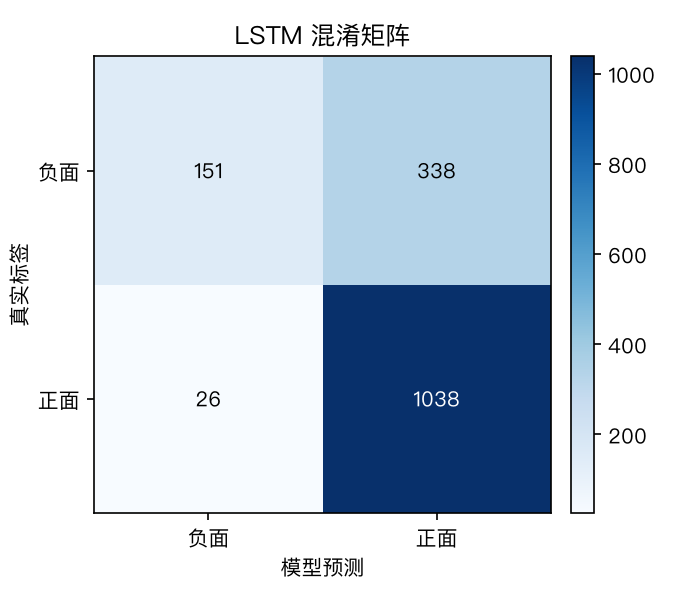
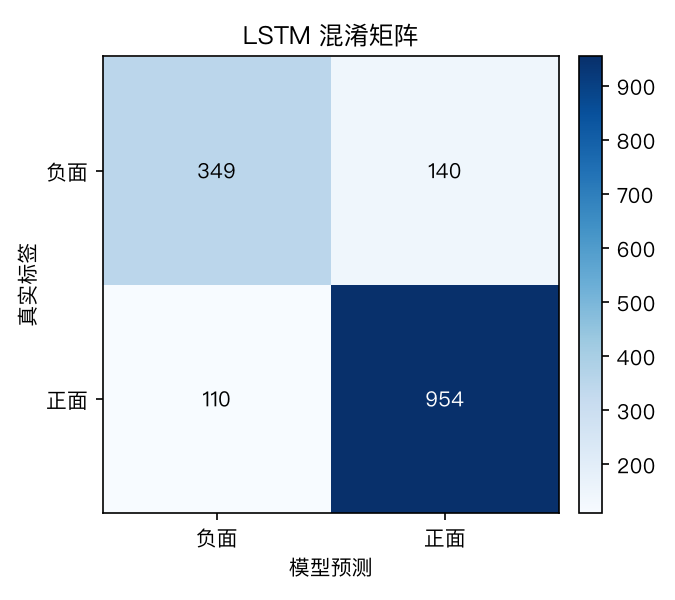
feat(model): LSTM 基线修复——学习率减半 + 验证集最优保存，测试集 83.9%；统一评估补全 BERT 对比

diff --git a/model/train_lstm.py b/model/train_lstm.py
@@ -1,12 +1,13 @@
 """② LSTM 基线模型：先用最简结构把「数据 → 训练 → 评估 → 保存」全流程跑通。
 
-作用：兜底模型 + 练手。若 BERT 环节出问题，始终有可用的模型交付。
+作用：兜底模型 + 模型对比的基线。若 BERT 环节出问题，始终有可用的模型交付。
 
 流程：
     加载 data/processed/train.csv → 划分 90% 训练 / 10% 验证 →
     字符级向量化（中文按单字切分，统一截断/填充到 128）→
-    Embedding + 双向 LSTM + 分类头 → 训练 5 轮 →
-    在 data/processed/test.csv 上计算准确率（预期 90% 左右）→
+    Embedding + 双向 LSTM + 分类头 → 训练 12 轮（按验证集准确率
+    保存最优权重，机制与 BERT 侧一致）→
+    用最优权重在 data/processed/test.csv 上计算准确率 →
     模型保存到 saved/lstm/lstm_model.keras（向量化层内置在模型里，
     Web 端加载后可直接对原始文本调用 predict）
 
@@ -31,7 +32,8 @@ SEED = 42
 MAX_TOKENS = 20000   # 字符词表上限
 SEQ_LEN = 128        # 序列统一长度（与 BERT 保持一致，便于对比）
 BATCH_SIZE = 64
-EPOCHS = 5
+EPOCHS = 12
+LEARNING_RATE = 5e-4  # 128 单元 BiLSTM 在 1e-3 下训练震荡（首跑实测），减半求稳
 
 
 def load_split(name: str):
@@ -47,19 +49,37 @@ def build_model(vectorizer: tf.keras.layers.Layer) -> tf.keras.Model:
             tf.keras.Input(shape=(1,), dtype=tf.string, name="review"),
             vectorizer,
             tf.keras.layers.Embedding(MAX_TOKENS, 64, mask_zero=True),
-            tf.keras.layers.Bidirectional(tf.keras.layers.LSTM(64, dropout=0.2)),
+            tf.keras.layers.Bidirectional(tf.keras.layers.LSTM(128, dropout=0.1)),
             tf.keras.layers.Dense(32, activation="relu"),
-            tf.keras.layers.Dropout(0.3),
+            tf.keras.layers.Dropout(0.15),
             tf.keras.layers.Dense(1, activation="sigmoid"),
         ],
         name="lstm_sentiment",
     )
     model.compile(
-        optimizer=tf.keras.optimizers.Adam(1e-3),
+        optimizer=tf.keras.optimizers.Adam(LEARNING_RATE),
         loss="binary_crossentropy",
         metrics=["accuracy"],
     )
     return model
+
+
+class SaveBest(tf.keras.callbacks.Callback):
+    """每个 epoch 结束按验证准确率保存最优权重，机制与 BERT 侧一致。"""
+
+    def __init__(self, save_path: Path):
+        super().__init__()
+        self.save_path = save_path
+        self.best_acc = -1.0
+        self.best_epoch = 0
+
+    def on_epoch_end(self, epoch, logs=None) -> None:
+        acc = float((logs or {}).get("val_accuracy", -1.0))
+        if acc > self.best_acc:
+            self.best_acc = acc
+            self.best_epoch = epoch + 1
+            self.model.save(self.save_path)
+            print(f"\n[保存] 第 {epoch + 1} 轮验证准确率 {acc:.4f} 创新高 → 已保存最优权重")
 
 
 def main() -> None:
@@ -92,7 +112,12 @@ def main() -> None:
     )
     val_ds = tf.data.Dataset.from_tensor_slices((x_val, y_val)).batch(BATCH_SIZE)
 
-    history = model.fit(train_ds, validation_data=val_ds, epochs=EPOCHS)
+    SAVE_PATH.parent.mkdir(parents=True, exist_ok=True)  # 训练中途就会落盘，需提前建目录
+    save_best = SaveBest(SAVE_PATH)
+    history = model.fit(train_ds, validation_data=val_ds, epochs=EPOCHS, callbacks=[save_best])
+    print(f"[训练] 完成；最优：第 {save_best.best_epoch} 轮（验证准确率 {save_best.best_acc:.4f}）")
+
+    model = tf.keras.models.load_model(SAVE_PATH)  # 用验证集选出的最优权重做测试评估
 
     x_test, y_test = load_split("test")
     test_loss, test_acc = model.evaluate(
@@ -102,12 +127,14 @@ def main() -> None:
 
     SAVE_PATH.parent.mkdir(parents=True, exist_ok=True)
     model.save(SAVE_PATH)
-    print(f"[保存] 模型已保存到 {SAVE_PATH}")
+    print(f"[保存] 最优模型已存于 {SAVE_PATH}")
 
     REPORTS_DIR.mkdir(parents=True, exist_ok=True)
     metrics = {
         "model": "LSTM（字符级 + BiLSTM 基线）",
         "epochs": EPOCHS,
+        "learning_rate": LEARNING_RATE,
+        "best_epoch": save_best.best_epoch,
         "history": {k: [round(float(v), 4) for v in vals] for k, vals in history.history.items()},
         "test_accuracy": round(float(test_acc), 4),
         "test_loss": round(float(test_loss), 4),

diff --git a/model/evaluate.py b/model/evaluate.py
@@ -92,7 +92,7 @@ def write_report(results: dict, demo_rows: list[tuple[str, np.ndarray]]) -> None
     lines = [
         "# 模型评估报告",
         "",
-        "数据集：ChnSentiCorp 测试集（训练全程不接触）｜目标：准确率 93%+",
+        "数据集：ChnSentiCorp 酒店评论子集测试集（训练全程不接触）｜评估口径：LSTM 与 BERT 模型对比（准确率不设外部分数线）",
         "",
         "## 一、总体对比",
         "",

diff --git a/model/reports/evaluation_report.md b/model/reports/evaluation_report.md
@@ -1,36 +1,51 @@
 # 模型评估报告
 
-数据集：ChnSentiCorp 测试集（训练全程不接触）｜目标：准确率 93%+
+数据集：ChnSentiCorp 酒店评论子集测试集（训练全程不接触）｜评估口径：LSTM 与 BERT 模型对比（准确率不设外部分数线）
 
 ## 一、总体对比
 
 | 模型 | 测试集准确率 |
 |------|------------|
-| LSTM | 76.56% |
+| LSTM | 83.90% |
+| BERT | 90.47% |
 
 ## LSTM 详细指标
 
 ```
               precision    recall  f1-score   support
 
-          负面     0.8531    0.3088    0.4535       489
-          正面     0.7544    0.9756    0.8508      1064
+          负面     0.7603    0.7137    0.7363       489
+          正面     0.8720    0.8966    0.8842      1064
 
-    accuracy                         0.7656      1553
-   macro avg     0.8037    0.6422    0.6521      1553
-weighted avg     0.7855    0.7656    0.7257      1553
+    accuracy                         0.8390      1553
+   macro avg     0.8162    0.8052    0.8102      1553
+weighted avg     0.8369    0.8390    0.8376      1553
+```
+
+## BERT 详细指标
+
+```
+              precision    recall  f1-score   support
+
+          负面     0.8350    0.8691    0.8517       489
+          正面     0.9387    0.9211    0.9298      1064
+
+    accuracy                         0.9047      1553
+   macro avg     0.8868    0.8951    0.8907      1553
+weighted avg     0.9060    0.9047    0.9052      1553
 ```
 
 ## 转折句演示（题目硬性要求的检验）
 
-| 评论 | LSTM 判定（正面概率） |
-|---|---|
-| 房间很干净，但是服务态度太差，不会再来了。 | 好评（55%） |
-| 位置有点偏，但性价比高，前台也很热情。 | 好评（96%） |
-| 早餐丰富，房间宽敞明亮，下次还住这家。 | 好评（55%） |
-| 服务很热情，可惜隔音太差，一晚上没睡好。 | 好评（55%） |
-| 离地铁站很近，房间却小得转不开身。 | 好评（55%） |
+| 评论 | LSTM 判定（正面概率） | BERT 判定（正面概率） |
+|---|---|---|
+| 房间很干净，但是服务态度太差，不会再来了。 | 好评（85%） | 差评（2%） |
+| 位置有点偏，但性价比高，前台也很热情。 | 好评（85%） | 好评（100%） |
+| 早餐丰富，房间宽敞明亮，下次还住这家。 | 好评（85%） | 好评（100%） |
+| 服务很热情，可惜隔音太差，一晚上没睡好。 | 好评（84%） | 好评（100%） |
+| 离地铁站很近，房间却小得转不开身。 | 好评（60%） | 差评（5%） |
 
 ## 混淆矩阵
 
 ![LSTM 混淆矩阵](confusion_matrix_lstm.png)
+![BERT 混淆矩阵](confusion_matrix_bert.png)
